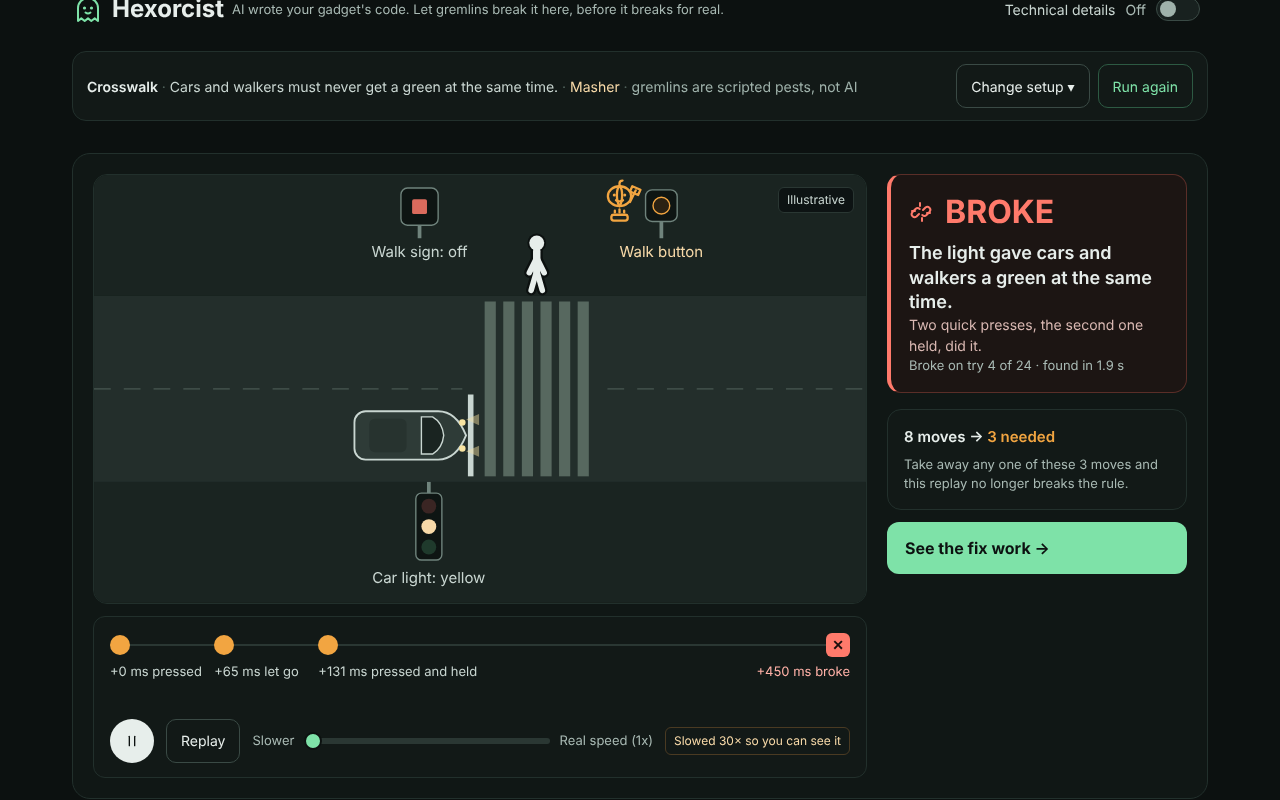
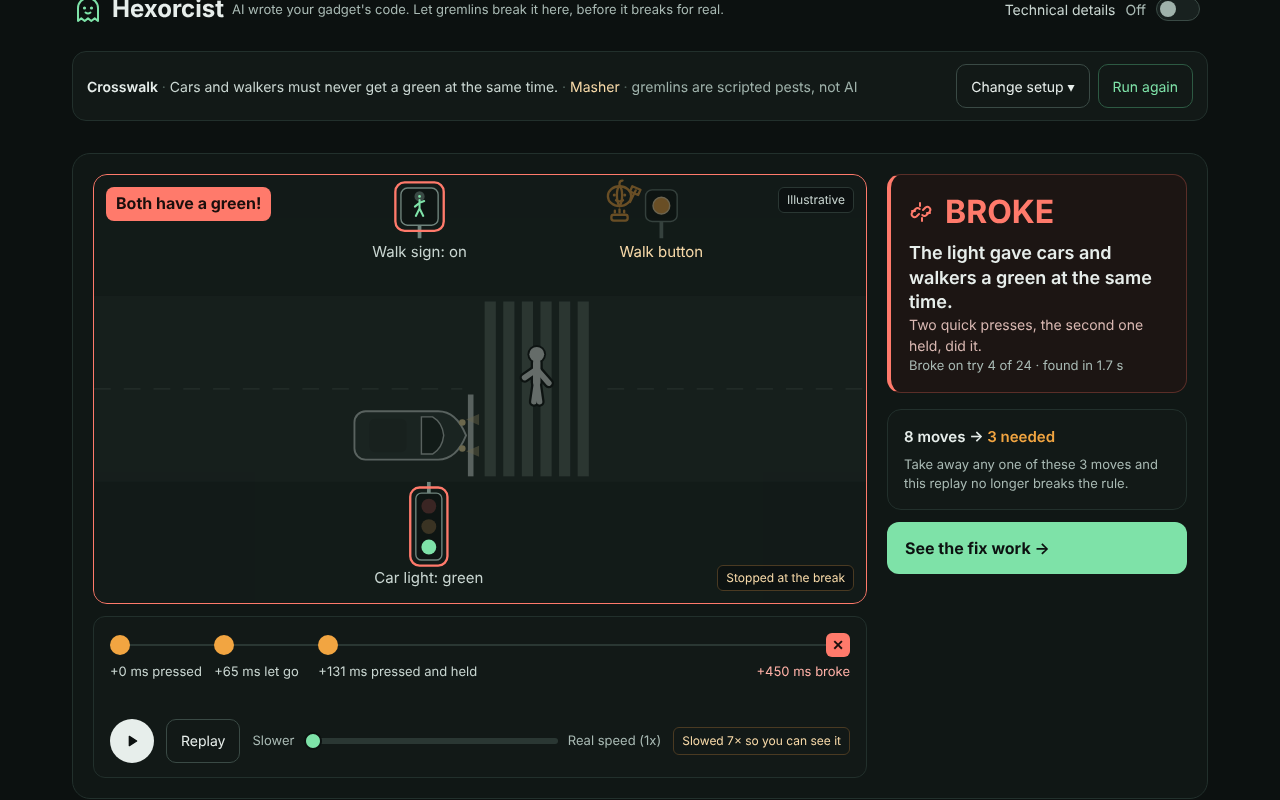
Round 5b: HELD headline in the fix view, cleaner COULDN'T TELL screen, new screenshots, who-wrote-what in one place, round 3 motor brief (claude)
- Fix view: the fixed program's verdict word (HELD / BROKE / COULDN'T TELL)
  as a headline the size of BROKE on the left card
- COULDN'T TELL: stage note 'Nothing to replay.', no faded pins behind it;
  tab text no longer repeats the card
- docs/img: broke.png at the break (both greens), fix.png with the HELD
  headline, tell.png, chat-written.png
- README: short work-split paragraph; file-by-file list moved to
  HOW-KIRO-BUILT-THIS.md 'Who wrote what'; JSON claim narrowed to what is
  checked (same bytes, same fingerprints on Windows and Linux)
- JUDGES: the fix view runs all 24 tries live
- exorcism-demo/motor + motor-check.json + benchmark round 3 brief (motor
  direction, both switches on = short), calibrated on two C replicas

Claude-Session: https://claude.ai/code/session_011WgiHXYA8DBnTNi8meLV3F

diff --git a/src/ui/app/views/fix-view.ts b/src/ui/app/views/fix-view.ts
@@ -312,8 +312,13 @@ export function createFixView(playback: Playback, playerNode?: HTMLElement): Fix
     showCampaignDone(verdict, tries, violatingRunIndex, plainBroke) {
       const t = fixedCampaignText(verdict, tries, violatingRunIndex, plainBroke);
       cardTone(verdict.verdict === "HELD" ? "held" : verdict.verdict === "BROKE" ? "broke" : "tell");
+      // (claude) The verdict word as a headline, like BROKE on the left card; the prefix keeps the rest.
+      const sep = t.prefix.indexOf(" \u00b7 ");
+      const word = sep > 0 ? t.prefix.slice(0, sep) : null;
+      const rest = sep > 0 ? t.prefix.slice(sep + 3) : t.prefix;
       setChildren(campaignBox, [
-        campaignParagraph(t.prefix, "fix-campaign-prefix"),
+        ...(word === null ? [] : [campaignParagraph(word, "fix-right-word")]),
+        campaignParagraph(rest.charAt(0).toUpperCase() + rest.slice(1), "fix-campaign-prefix"),
         ...t.lines.map((l) => campaignParagraph(l, "fix-campaign-line")),
       ]);
     },

diff --git a/src/ui/app/model/stage-copy.ts b/src/ui/app/model/stage-copy.ts
@@ -80,7 +80,7 @@ export const STAGE_TEXT = {
   /** Stage line when that replay could not be made. */
   heldFailed: "This try could not be replayed here.",
   /** Dimmed scene line after COULDN'T TELL. */
-  couldntTell: "This program can't be judged here. The card says why.",
+  couldntTell: "Nothing to replay.",
 } as const;
 
 export const CARD_TEXT = {
@@ -106,7 +106,7 @@ export const FIX_TEXT = {
 export const TAB_TEXT = {
   names: ["What happened", "Signals", "The fix", "Details"],
   idle: "The story of the run shows here after you unleash the gremlins.",
-  couldntTell: "No result for this program, so there is nothing to replay. The verdict card says why.",
+  couldntTell: "No replay: the verdict card explains why this program has no result.",
   fixNotRun: "Press See the fix work to compare.",
 } as const;
 

diff --git a/src/ui/app/app.css b/src/ui/app/app.css
@@ -4183,3 +4183,23 @@ button[aria-disabled="true"] {
 .scene-card.is-dim .pin-levels-frame .pin-levels-columns {
   opacity: 0.2;
 }
+
+/* (claude) The fixed program's verdict word, the same size as BROKE on the left card. */
+.fix-card--right .fix-right-word {
+  font-size: 26px;
+  font-weight: 700;
+  line-height: 1.2;
+}
+.fix-card--held .fix-right-word {
+  color: var(--mint);
+}
+.fix-card--broke .fix-right-word {
+  color: var(--coral);
+}
+.fix-card--tell .fix-right-word {
+  color: var(--text);
+}
+/* (claude) COULDN'T TELL on the pin-levels view: no faded pins behind the note. */
+.scene-card.is-dim .pin-levels-frame .pin-levels-columns {
+  opacity: 0;
+}

diff --git a/README.md b/README.md
@@ -101,7 +101,7 @@ npm run check -- --hex my.hex --pins pins.json --rules rules.txt --json
 | `--hex`, `--pins`, `--rules` | Your own program: a plain .hex, a pin map in the "Export pin map" format, and a text file with one rule per line |
 | `--gremlins <id,id>` | Gremlin ids (default: the example's set, or the Masher for your own program) |
 | `--runs`, `--seed`, `--run-ms` | Tries, seed and device time per try, with the same limits as the page |
-| `--json` | One JSON object on stdout, byte-identical for the same inputs on any OS |
+| `--json` | One JSON object on stdout; the same inputs give the same bytes (no times, paths or host names), and the same fingerprints on Windows and Linux |
 
 Exit codes: `0` HELD, `1` BROKE, `2` COULDN'T TELL, `3` input or internal error. COULDN'T TELL never exits 0.
 
@@ -138,14 +138,7 @@ Kiro wrote the web app, the engine and their tests in 13 specs, and wrote the 14
 - **The Exorcism Loop:** Kiro took a crossing sketch written by a chat AI, checked it with the power (BROKE twice), fixed it until the check said HELD, and the Agent Stop hook ran when it finished: 45 seconds, 0.58 credits.
 - **CI** runs the type check, the guard, every test and the build on each push, and `gate-demo` runs the GitHub Action on the Crosswalk example.
 
-How the work was split: Kiro wrote the product code in 13 specs, up to its credit limit. After that, Claude wrote some follow-up code (listed below), each change reviewed and merged by the author. The author directed the project, approved every change and ran the browser checks. Claude also acted as the planning lead: spec prompts, review triage, acceptance checks, this README, and the starting drafts of the hook, agent and workflow files, which the author installed and ran in Kiro. ChatGPT and Gemini gave outside design reviews.
-
-Code written by Claude after the Kiro credit limit (each commit message ends in `(claude)`):
-
-- Upload page: hide analog gremlins on uploads, show the "pick a gremlin" message only after a click, page description and no-script text, and the "Try one it can't check" sample.
-- Terminal runner (`cli/`), built from Kiro spec #14 `headless-runner` (`.kiro/specs/headless-runner/`): `npm run check`, JSON output, exit codes, and its tests in `tests/cli/`; the GitHub Action (`action.yml`, `cli/step-summary.ts`, `gate-demo.yml`) and the MCP server (`mcp/`), with tests in `tests/mcp/`.
-- Hook commands for the Exorcism Loop (`cli/hook-stop.ts`, `cli/hook-guard.ts`), the `exorcism-demo/` device files, and two plain C test programs for it (`tests/cli/conveyor/`).
-- The Kiro power files (`power/hexorcist/`: `plugin.json`, `mcp.json`, the `check-firmware` skill).
+How the work was split: Kiro wrote the web app, the engine and their tests in 13 specs, up to its credit limit. After that, Claude wrote follow-up code in pull requests the author reviewed and merged (each commit message ends in `(claude)`; the list is in [docs/HOW-KIRO-BUILT-THIS.md](docs/HOW-KIRO-BUILT-THIS.md#who-wrote-what)). ChatGPT, Gemini and DeepSeek gave outside reviews.
 
 ## Limits
 

diff --git a/exorcism-demo/benchmark/README.md b/exorcism-demo/benchmark/README.md
@@ -112,6 +112,43 @@ you care about: `must never happen` catches it; `must never last 1 ms or longer`
 replica of the same write order). The fix is to switch lights off before switching others on, as the
 Crosswalk example's fixed build does.
 
+## Round 3: motor direction (a brief where a short overlap matters)
+
+Brief (sent unchanged):
+
+> Write a sketch for an ATmega328P board (Uno-compatible) that drives a DC motor through two transistor
+> switches. The FORWARD switch is on pin 8 and the REVERSE switch is on pin 9 (HIGH = on). Turning both on at
+> the same time, even for a moment, shorts the supply. Three buttons are wired to GND (use the internal
+> pull-ups): FORWARD on pin 2, REVERSE on pin 3, STOP on pin 4. Pressing FORWARD runs the motor forward,
+> pressing REVERSE runs it in reverse (it can switch directly from one direction to the other), and STOP turns
+> both switches off. Keep it simple. Reply with the code only.
+
+Rules (`exorcism-demo/motor/rules.txt`), restating the brief:
+
+```
+all of (FORWARD is 1, REVERSE is 1) must never happen.
+Within 50 ms after STOP_BUTTON is 0 becomes true, FORWARD is 0 must be true.
+Within 50 ms after STOP_BUTTON is 0 becomes true, REVERSE is 0 must be true.
+```
+
+Calibration (plain C replicas built with avr-gcc, Masher + Bouncer, 200 tries, seed 20261101): a helper that
+writes FORWARD and then REVERSE breaks the first rule on try 2; one that switches both off before turning one
+on holds all 200 tries.
+
+Check: `node exorcism-demo/try.mjs exorcism-demo/benchmark/round3/<file>.ino exorcism-demo/motor-check.json`
+
+| File | Chat tool, model and setting | Verdict |
+|---|---|---|
+| | | |
+
+## In the app
+
+**Your own program → Try a chat-written sketch** loads `chatgpt-high.hex` unedited, with the Crosswalk pins
+and the rule it broke. BROKE on try 1 of 24, one press, and the story says the overlap lasted 4.9
+microseconds.
+
+![The chat-written sketch in the app: walk sign and don't-walk sign both on, one press, 4.9 microseconds](../../docs/img/chat-written.png)
+
 ## The Exorcism Loop on `chatgpt-high.ino`
 
 Kiro (Vibe mode, model Auto, with the hexorcist power) got `chatgpt-high.ino` as

diff --git a/docs/HOW-KIRO-BUILT-THIS.md b/docs/HOW-KIRO-BUILT-THIS.md
@@ -81,6 +81,25 @@ and the person can edit right next to it without setting anything off.
 - **Honest verdicts.** HELD always says "Not a proof", and a program that uses a chip part the emulator
   does not model gets COULDN'T TELL instead of a pass.
 
+## Who wrote what
+
+Kiro wrote the web app, the engine and their tests in 13 specs, and wrote the requirements, design and tasks
+of spec #14. The author
+directed the project, approved every change and ran the browser checks. Claude acted as the planning lead
+(spec prompts, review triage, acceptance values, the README, and the starting drafts of the hook, agent and
+workflow files, which the author installed and ran in Kiro) and, after Kiro's credit limit, wrote
+follow-up code in pull requests the author reviewed and merged. Each of those commit messages ends in
+`(claude)`.
+
+Code written by Claude after the Kiro credit limit:
+
+- Upload page: hide analog gremlins on uploads, show the "pick a gremlin" message only after a click, page description and no-script text, and the "Try one it can't check" sample.
+- Terminal runner (`cli/`), built from Kiro spec #14 `headless-runner` (`.kiro/specs/headless-runner/`): `npm run check`, JSON output, exit codes, and its tests in `tests/cli/`; the GitHub Action (`action.yml`, `cli/step-summary.ts`, `gate-demo.yml`) and the MCP server (`mcp/`), with tests in `tests/mcp/`.
+- Hook commands for the Exorcism Loop (`cli/hook-stop.ts`, `cli/hook-guard.ts`), the `exorcism-demo/` device files, and two plain C test programs for it (`tests/cli/conveyor/`).
+- The Kiro power files (`power/hexorcist/`: `plugin.json`, `mcp.json`, the `check-firmware` skill).
+- "Try a chat-written sketch" and the microsecond wording in stories; the fix view's HELD headline; the
+  COULDN'T TELL screen copy.
+
 ## Credits
 
 About 3,940 of the 4,000 Kiro credits were used on the specs and on follow-up fix passes. The upload-path

diff --git a/docs/JUDGES.md b/docs/JUDGES.md
@@ -14,7 +14,7 @@ a green.
 ## 2. See the fix hold (30 seconds)
 
 Press **See the fix work**. The same 3 moves play on the original and the fixed program side by side: the
-original breaks, the fixed one holds, and the card says *"No violation found in 24 emulated runs of this
+original breaks, the fixed one holds. Then the fixed program runs all 24 tries live, and the card says *"No violation found in 24 emulated runs of this
 gremlin set. Not a proof."*
 
 ## 3. See it refuse to guess (30 seconds)
